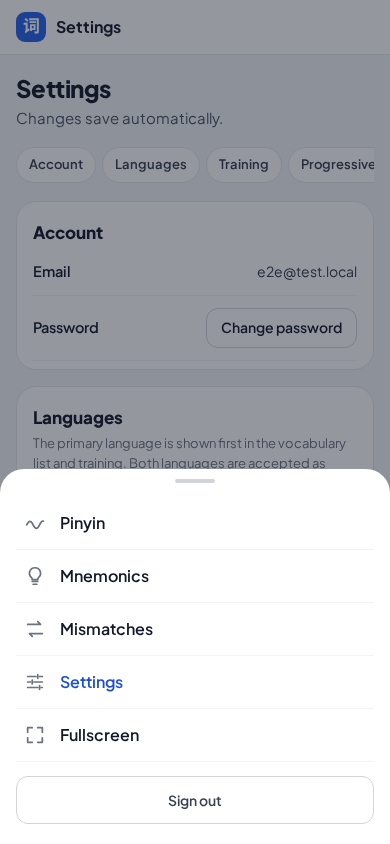
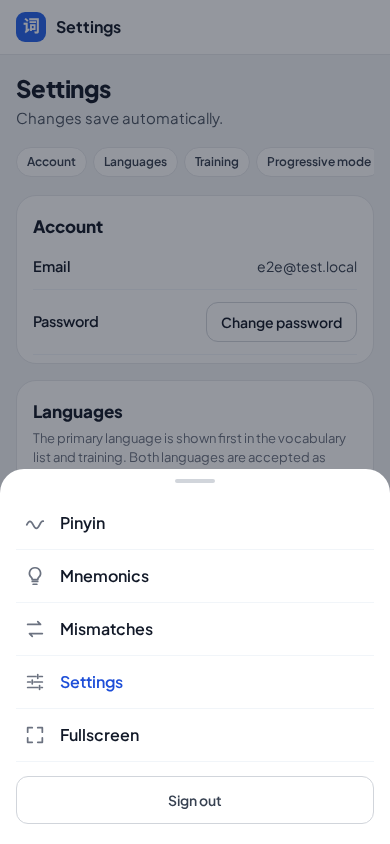
Stack label+select rows on mobile for cycle/languages sections; shrink chips
- #sec-cycle and #sec-languages .st-row now stack vertically on ≤879px
  (same fix already applied to #sec-progressive)
- .st-chip padding/font-size reduced on mobile so more chips fit before scroll

diff --git a/service/frontend/app.css b/service/frontend/app.css
@@ -348,9 +348,12 @@ label.st-text { cursor: pointer; }
 @media (max-width: 879px) {
   .st-index { display: none; }
   .st-chips { display: flex; }
+  .st-chip { padding: 5px 10px; font-size: 12px; }
   .st-row-range { flex-direction: column; align-items: stretch; }
   .st-range { justify-content: flex-start; }
-  #sec-progressive .st-row { flex-direction: column; align-items: stretch; }
+  #sec-languages .st-row,
+  #sec-progressive .st-row,
+  #sec-cycle .st-row { flex-direction: column; align-items: stretch; }
 }
 @media (max-width: 480px) {
   .st-row { flex-wrap: wrap; }
